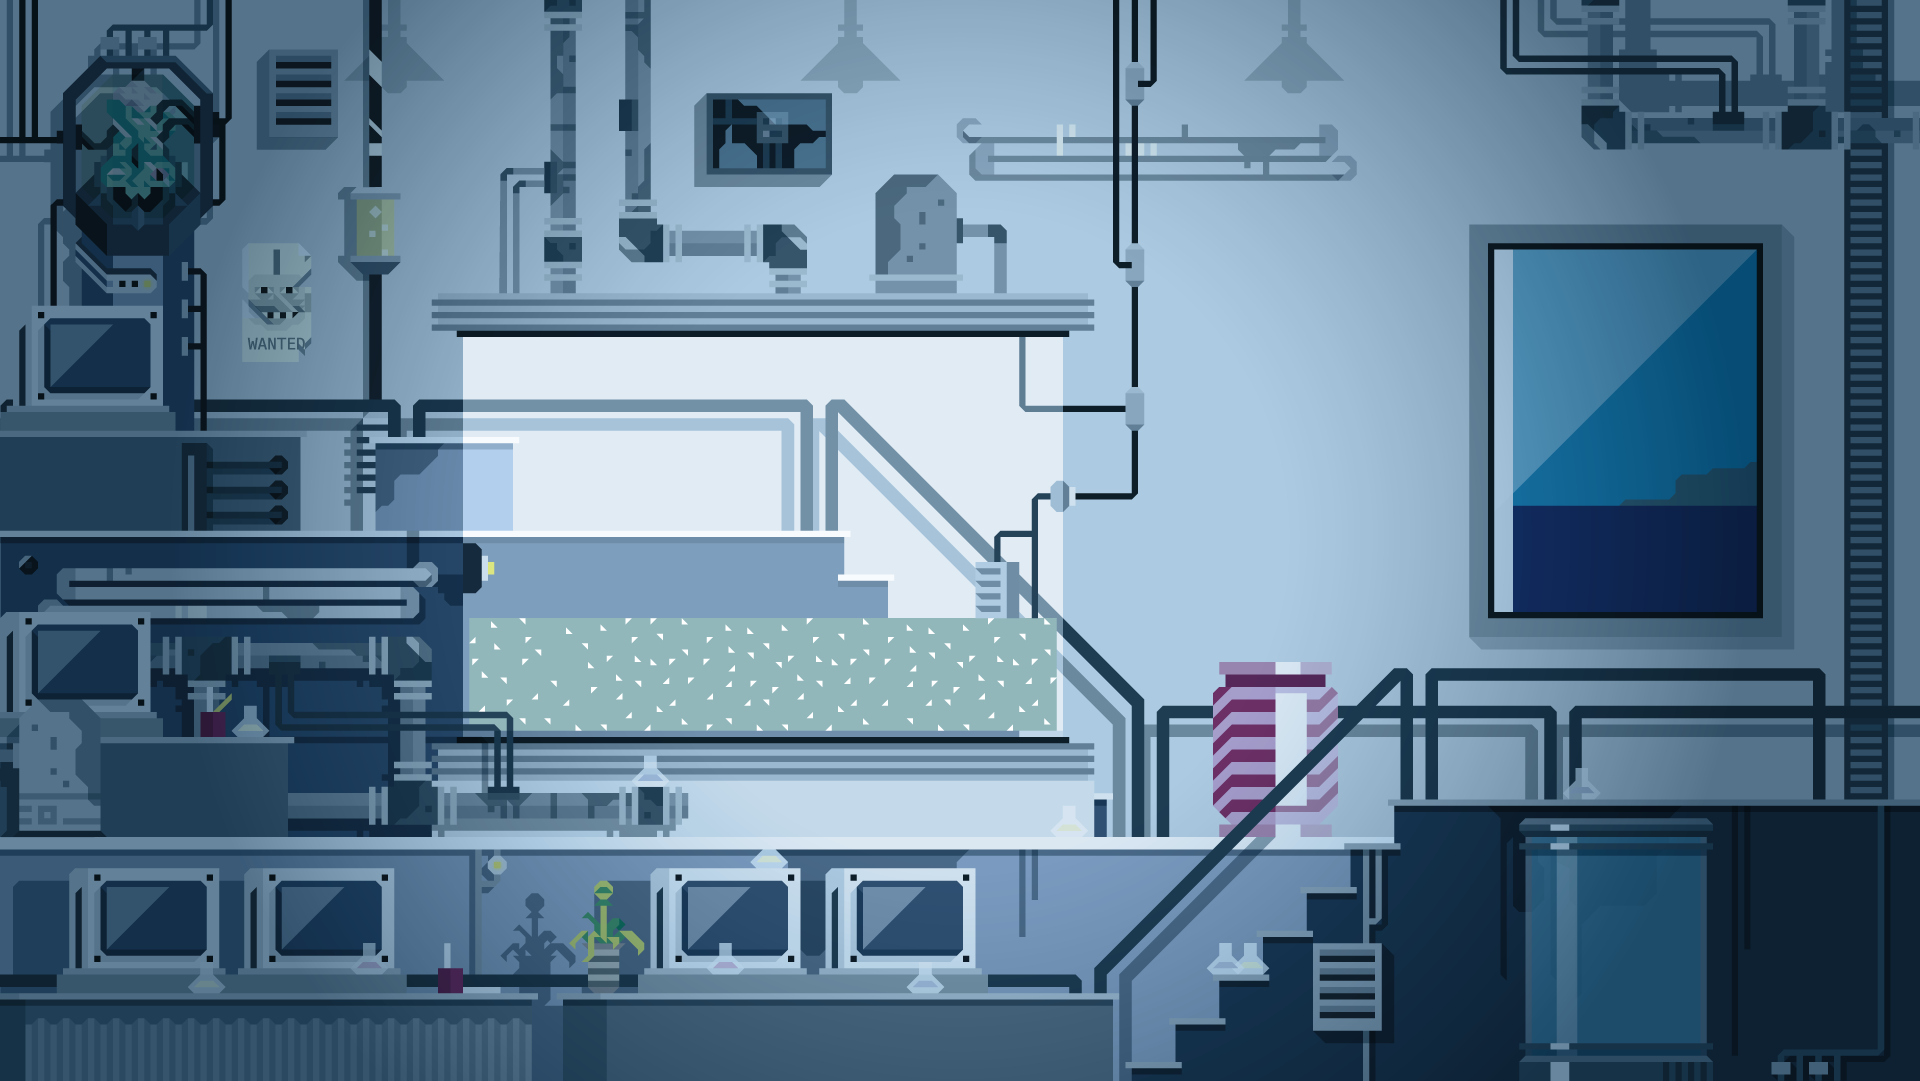
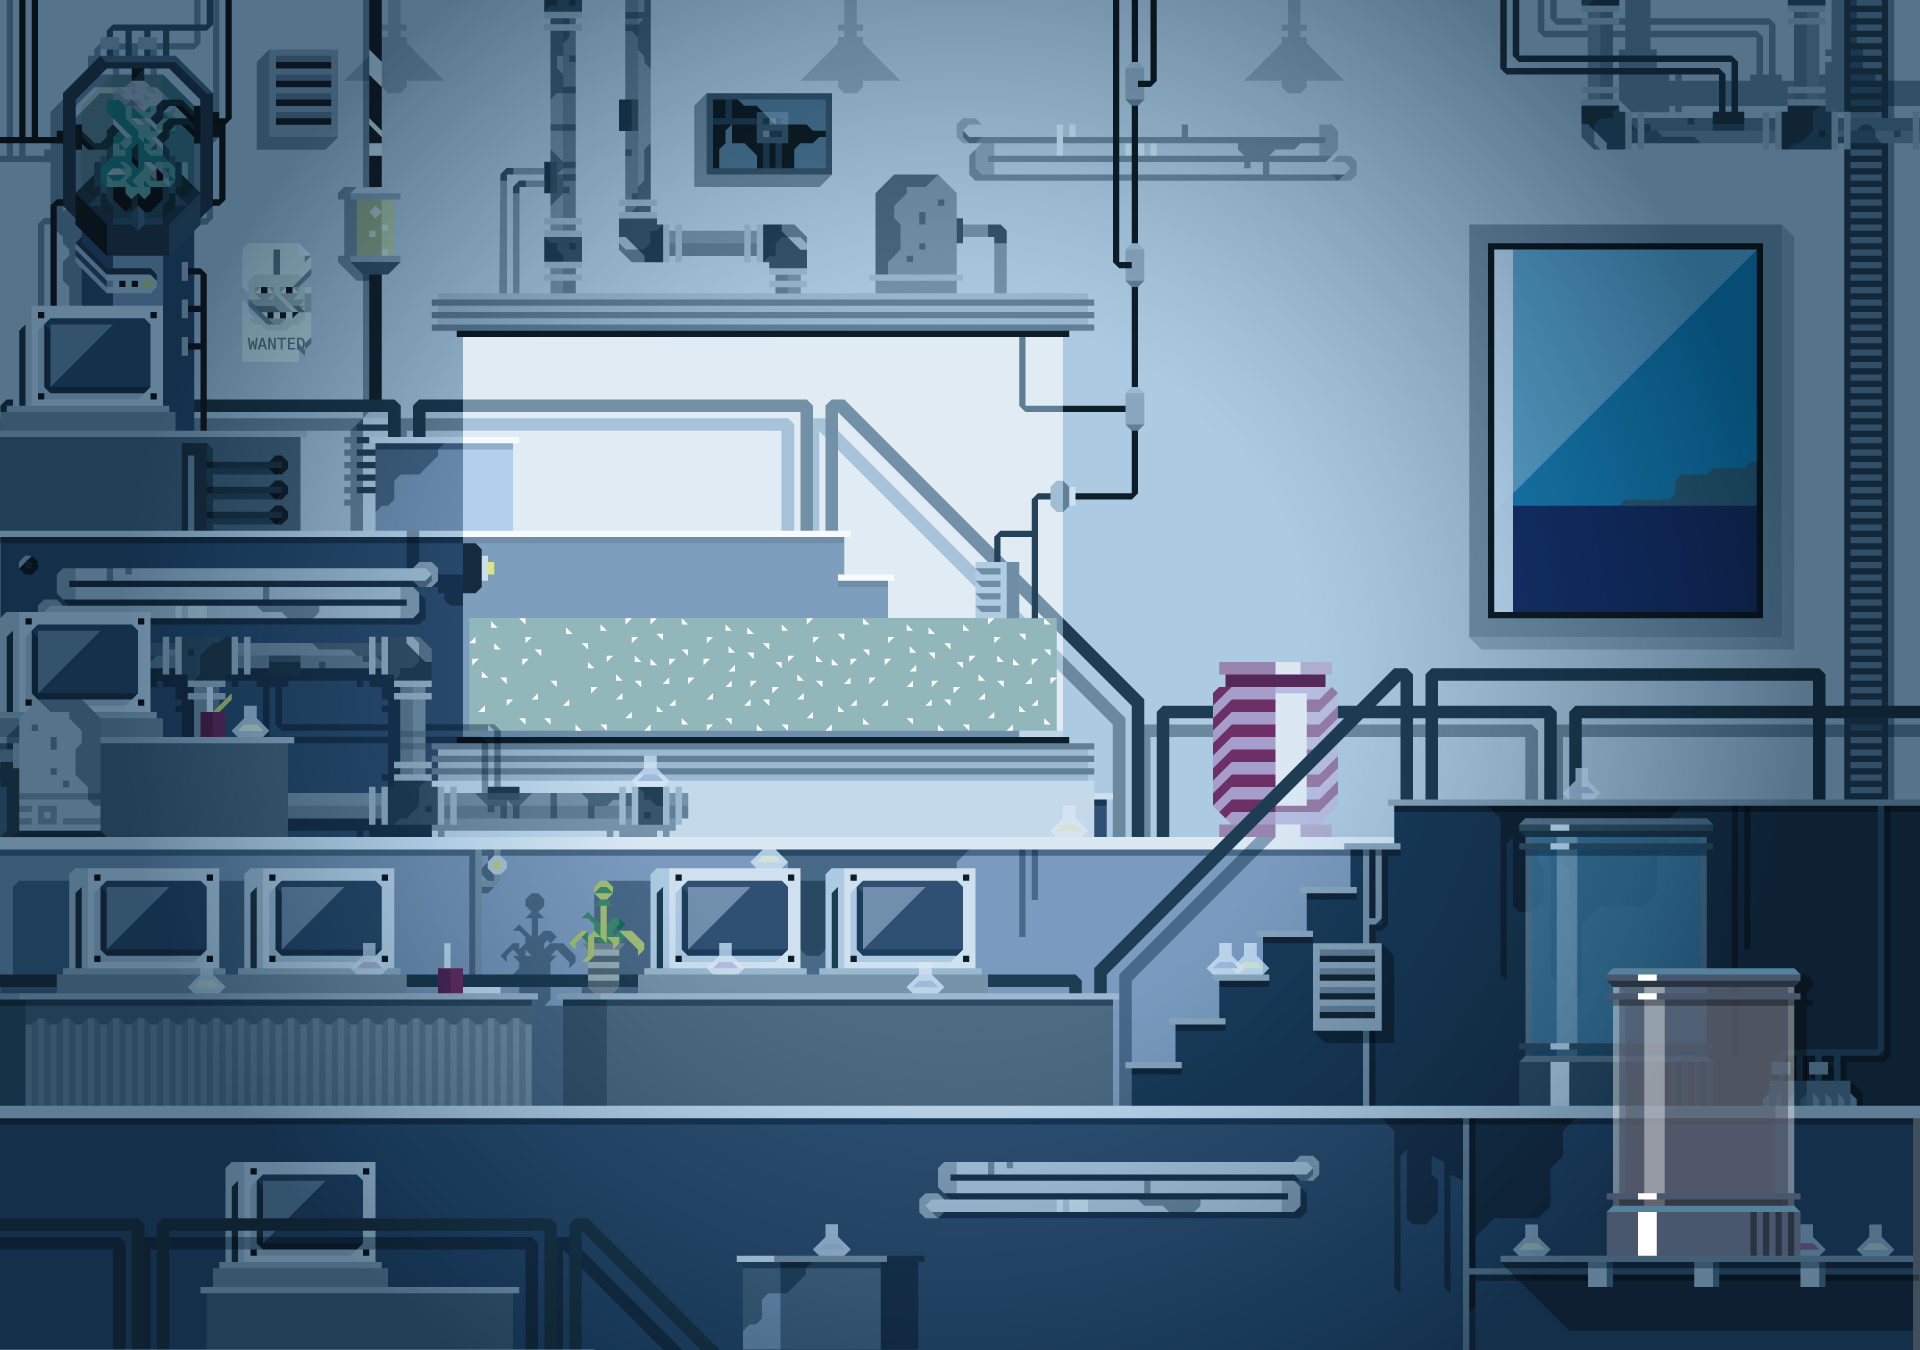
add timer and new text

diff --git a/Npcs/ScientistNpc.cpp b/Npcs/ScientistNpc.cpp
@@ -1,6 +1,7 @@
 #include "ScientistNpc.hpp"
 #include "RectangleShape.hpp"
 #include "TextManager.hpp"
+#include "Progress.hpp"
 #include <sstream>
 #include <vector>
 
@@ -17,6 +18,9 @@ ScientistNpc::ScientistNpc(ResourceKey key) :
 
 	getBox()->setApplyGravity(false);
 
+	float timePlayed = Progress::getInstance().getTimePlayed();
+	std::size_t minutes = static_cast<std::size_t>(timePlayed);
+	std::size_t seconds = static_cast<std::size_t>((timePlayed - minutes) * 60.f);
 	TextManager & textManager = TextManager::getInstance();
 	std::vector<std::wstring> const & texts = textManager.getTextsNpc(key);
 	std::vector<std::wstring> newTexts;
@@ -30,6 +34,8 @@ ScientistNpc::ScientistNpc(ResourceKey key) :
 			tokens.push_back(item);
 		if (tokens.size() == 2)
 		{
+			if (!tokens[1].compare(L"time_played"))
+				tokens[1] = std::to_wstring(minutes) + L"\'" + std::to_wstring(seconds) + L" !";
 			newTexts.push_back(tokens[1] + L"\n");
 			m_indexText[std::stoi(tokens[0])] = i;
 		}

diff --git a/Screens/LaboratoryEndScreen.cpp b/Screens/LaboratoryEndScreen.cpp
@@ -17,7 +17,7 @@ LaboratoryEndScreen::LaboratoryEndScreen(void) :
 	m_state(Appear),
 	m_timer(sf::Time::Zero),
 	m_globalTimer(sf::Time::Zero),
-	m_timeBeforeNextText(sf::seconds(1.f)),
+	m_timeBeforeNextText(sf::seconds(2.f)),
 	m_appearDuration(sf::seconds(2.f)),
 	m_cedricWalkTimer(sf::seconds(3.f)),
 	m_cedricPutPotionTimer(sf::seconds(3.f)),
@@ -60,8 +60,8 @@ void	LaboratoryEndScreen::start()
 	m_npcs.emplace_back(new ScientistLu());
 	m_npcs.emplace_back(new ScientistFran());
 	m_npcs.emplace_back(new ScientistCedric());
-	m_npcs[0]->setPosition(sf::Vector2f(200.f, 827.f));
-	m_npcs[1]->setPosition(sf::Vector2f(950.f, 827.f));
+	m_npcs[0]->setPosition(sf::Vector2f(950.f, 827.f));
+	m_npcs[1]->setPosition(sf::Vector2f(510.f, 827.f));
 	m_npcs[2]->setPosition(sf::Vector2f(1600.f, 790.f));
 	m_npcs[3]->setPosition(sf::Vector2f(-70.f, 577.f));
 
